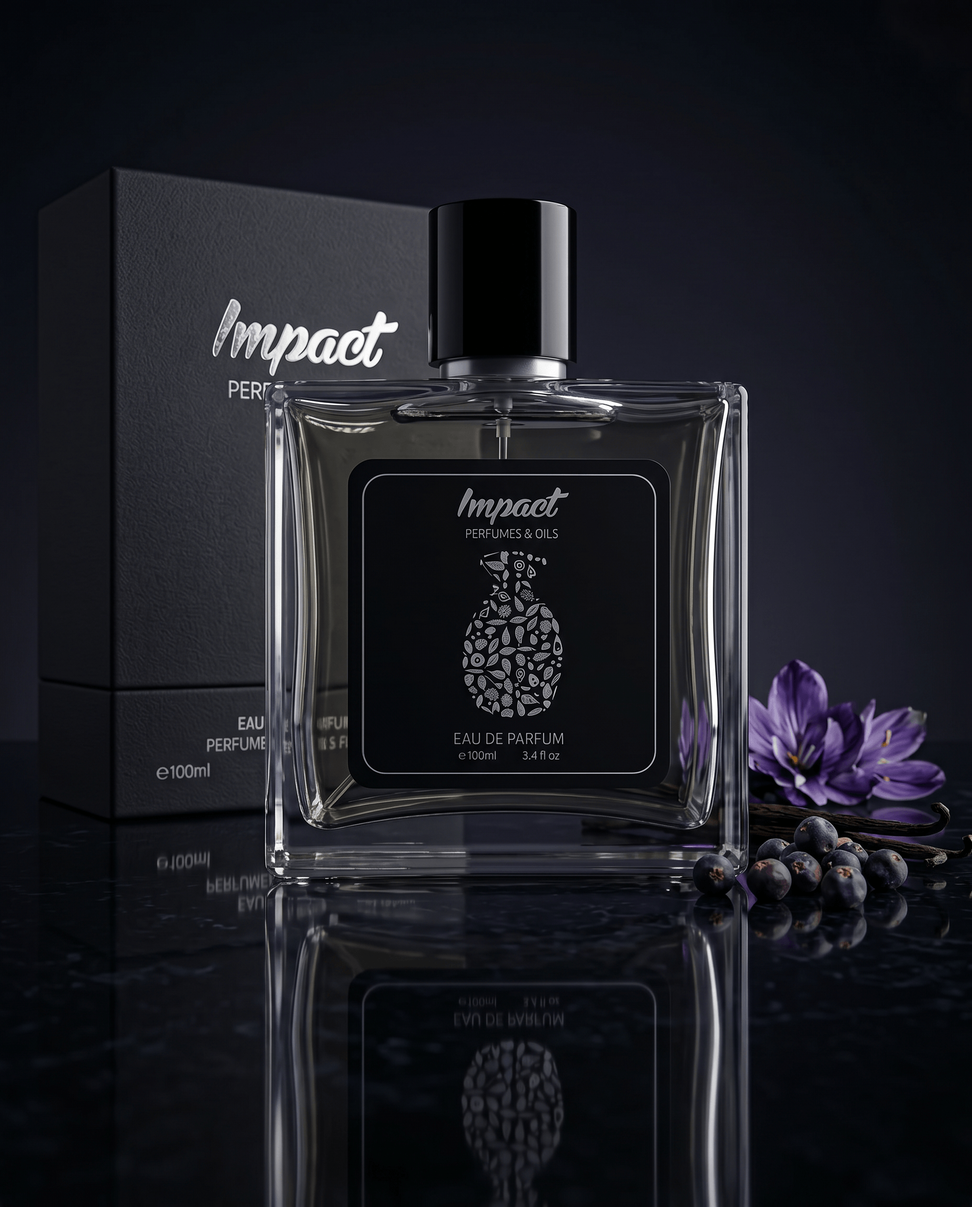
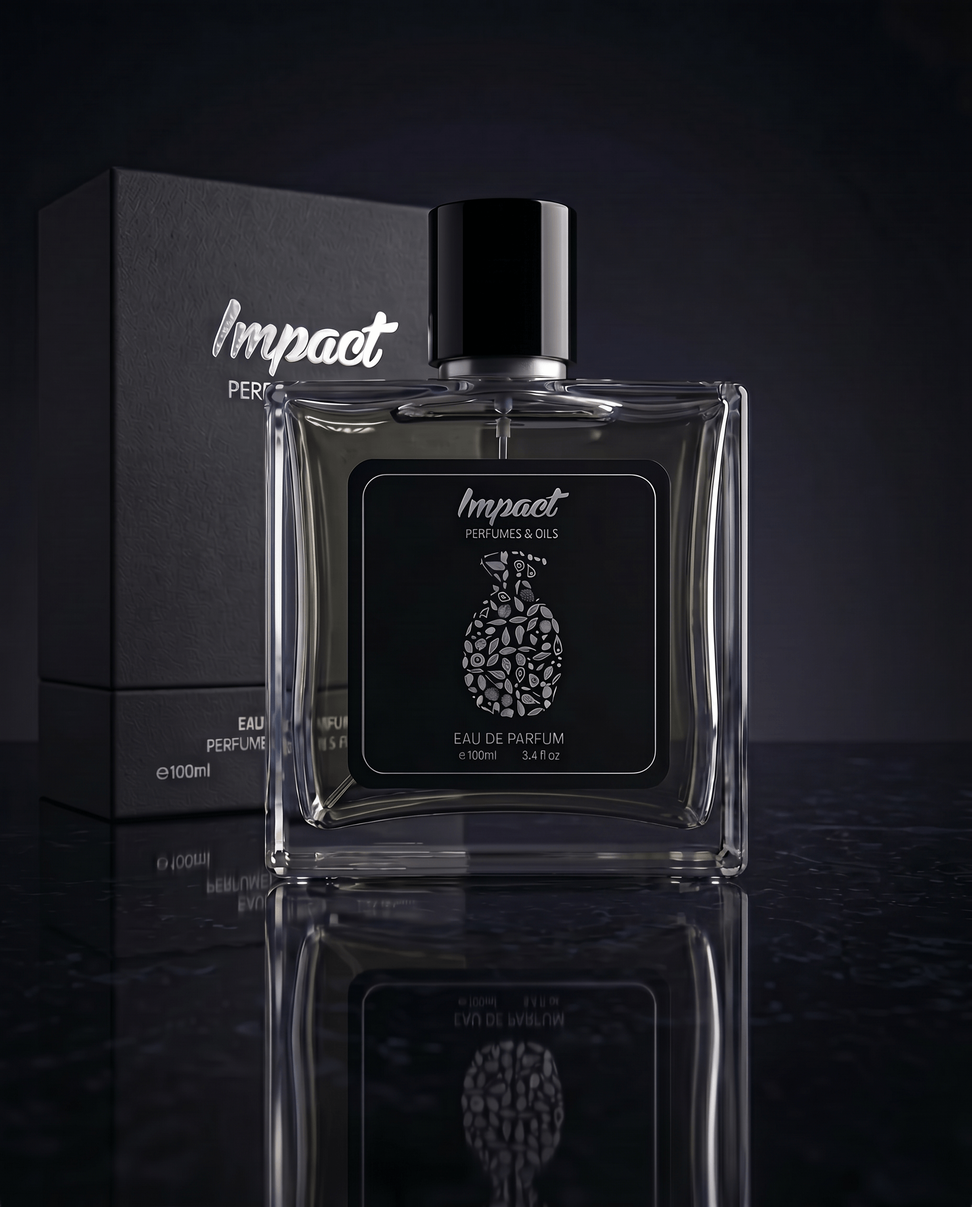
feat: rename /shop -> /no-series, refresh number bottle, sharper quiz CTAs
1) New No. series bottle image.
   public/images/no_series.png replaced with the new asset. Same filename
   so every existing reference keeps working.

2) /shop -> /no-series.
   The Number Series listing was sitting at /shop, which broke the pattern
   set by /signature, /oils, /home, /gifts. Moved the route folder and
   updated 31 URL refs across the codebase. Added a permanent /shop ->
   /no-series redirect (plus /shop/* -> /no-series/*) in next.config so
   inbound links and bookmarks keep landing.

3) Quiz CTAs that explain themselves.
   'Find Your Number' / 'Fragrance Finder' were brand-y but opaque to a
   first-time visitor. Refreshed copy across every touchpoint:
   - Hero secondary CTA: 'Find your fragrance'
   - Homepage Scent Quiz section: eyebrow now 'The Scent Quiz', CTA
     'Take the 90-second quiz', supporting copy reframed around 'tell us
     how you want to feel'.
   - Mega menu + mobile drawer Discovery column: 'Take the Scent Quiz'
   - /quiz page metadata: 'Find Your Fragrance' + matching OG copy.

diff --git a/src/components/layout/MegaMenu.tsx b/src/components/layout/MegaMenu.tsx
@@ -6,13 +6,13 @@ const MENUS = {
       {
         heading: 'Number Collection',
         links: [
-          { label: 'Shop All', href: '/shop' },
-          { label: 'Fruity', href: '/shop?family=Fruity' },
-          { label: 'Woody', href: '/shop?family=Woody' },
-          { label: 'Amber', href: '/shop?family=Amber' },
-          { label: 'Oud', href: '/shop?family=Oud' },
-          { label: 'Floral', href: '/shop?family=Floral' },
-          { label: 'Citrus', href: '/shop?family=Citrus' },
+          { label: 'Shop All', href: '/no-series' },
+          { label: 'Fruity', href: '/no-series?family=Fruity' },
+          { label: 'Woody', href: '/no-series?family=Woody' },
+          { label: 'Amber', href: '/no-series?family=Amber' },
+          { label: 'Oud', href: '/no-series?family=Oud' },
+          { label: 'Floral', href: '/no-series?family=Floral' },
+          { label: 'Citrus', href: '/no-series?family=Citrus' },
         ],
       },
     ],
@@ -40,7 +40,7 @@ const MENUS = {
         links: [
           { label: 'Number Series Discovery', href: '/gifts#discovery-sets' },
           { label: 'Signature Discovery', href: '/gifts#discovery-sets' },
-          { label: 'Fragrance Finder', href: '/quiz' },
+          { label: 'Take the Scent Quiz', href: '/quiz' },
         ],
       },
     ],

diff --git a/src/components/home/HomepageQuizSection.tsx b/src/components/home/HomepageQuizSection.tsx
@@ -7,13 +7,14 @@ export default function HomepageQuizSection() {
       <Container className="flex flex-col gap-10 md:flex-row md:items-center md:justify-between">
         <div className="max-w-lg">
           <p className="text-label uppercase tracking-[0.14em] text-ink/50">
-            Fragrance Finder
+            The Scent Quiz
           </p>
           <h2 className="mt-4 font-display text-[32px] md:text-display-s leading-[1.05] text-ink">
             Not sure where to start?
           </h2>
           <p className="mt-4 text-body text-ink/65 max-w-md">
-            Five questions. Takes 90 seconds. We match you to the Number made for you.
+            Tell us how you want to feel. Five questions, ninety seconds, and we&apos;ll
+            match you to the fragrance composed for you.
           </p>
         </div>
         <Link
@@ -21,7 +22,7 @@ export default function HomepageQuizSection() {
           className="shrink-0 inline-flex items-center justify-center bg-ink px-10 text-label uppercase tracking-[0.1em] text-bone transition-all duration-300 hover:bg-ink/80"
           style={{ height: 52 }}
         >
-          Find Your Number
+          Take the 90-second quiz
         </Link>
       </Container>
     </section>

diff --git a/src/components/home/CollectionsShowcase.tsx b/src/components/home/CollectionsShowcase.tsx
@@ -8,7 +8,7 @@ const COLLECTIONS = [
     description:
       '50 numbered Eau de Parfums. One silhouette. An infinite world of difference inside each bottle.',
     cta: 'Shop the Series',
-    href: '/shop',
+    href: '/no-series',
     accent: 'rgba(107,68,35,0.15)',
     large: true,
   },
@@ -61,7 +61,7 @@ export default function CollectionsShowcase() {
             </h2>
           </div>
           <Link
-            href="/shop"
+            href="/no-series"
             className="hidden text-small uppercase tracking-[0.1em] text-stone transition-colors hover:text-bone md:block"
           >
             View All
@@ -89,7 +89,7 @@ export default function CollectionsShowcase() {
         {/* Mobile CTA */}
         <div className="mt-8 md:hidden">
           <Link
-            href="/shop"
+            href="/no-series"
             className="text-small uppercase tracking-[0.1em] text-stone"
           >
             View All Collections

diff --git a/src/components/home/FeaturedNumbers.tsx b/src/components/home/FeaturedNumbers.tsx
@@ -50,7 +50,7 @@ export default async function FeaturedNumbers() {
             </h2>
           </div>
           <Link
-            href="/shop"
+            href="/no-series"
             className="hidden md:inline-flex items-center border border-stone/30 px-6 text-label uppercase tracking-[0.08em] text-bone/70 hover:border-bone hover:text-bone transition-colors duration-200 shrink-0"
             style={{ height: 40 }}
           >
@@ -129,7 +129,7 @@ export default async function FeaturedNumbers() {
         {/* Mobile "View all" CTA */}
         <div className="mt-10 flex justify-center md:hidden">
           <Link
-            href="/shop"
+            href="/no-series"
             className="inline-flex items-center border border-stone/30 px-8 text-label uppercase tracking-[0.08em] text-bone/70 hover:border-bone hover:text-bone transition-colors duration-200"
             style={{ height: 44 }}
           >

diff --git a/src/components/home/HeroSection.tsx b/src/components/home/HeroSection.tsx
@@ -30,7 +30,7 @@ export default function HeroSection() {
 
         <div className="mt-10 flex flex-wrap items-center gap-4">
           <Link
-            href="/shop"
+            href="/no-series"
             className="inline-flex items-center bg-accent px-8 text-label uppercase tracking-[0.1em] text-ink transition-all duration-300 ease-soft hover:opacity-90 hover:-translate-y-0.5"
             style={{ height: 52 }}
           >
@@ -41,7 +41,7 @@ export default function HeroSection() {
             className="inline-flex items-center border border-bone/30 px-8 text-label uppercase tracking-[0.1em] text-bone/80 transition-all duration-300 hover:border-bone hover:text-bone"
             style={{ height: 52 }}
           >
-            Find Your Number
+            Find your fragrance
           </Link>
         </div>
       </Container>

diff --git a/src/app/quiz/page.tsx b/src/app/quiz/page.tsx
@@ -5,12 +5,12 @@ import QuizClient from '@/components/quiz/QuizClient'
 import { type Enrichment } from '@/components/quiz/quizData'
 
 export const metadata: Metadata = {
-  title: 'Find Your Number',
+  title: 'Find Your Fragrance',
   description:
-    'Answer 5 questions and discover the Impact fragrance made for you.',
+    'Five questions, ninety seconds. We match you to the Impact fragrance composed for you.',
   openGraph: {
-    title: 'Find Your Number · Impact Perfumes',
-    description: 'Answer 5 questions. We match you to your Number.',
+    title: 'Find Your Fragrance · Impact Perfumes',
+    description: 'Five questions, ninety seconds. We match you to the fragrance for you.',
   },
 }
 

diff --git a/src/components/layout/MobileMenuDrawer.tsx b/src/components/layout/MobileMenuDrawer.tsx
@@ -16,8 +16,8 @@ const sections = [
   {
     title: 'Number Collection',
     links: [
-      { label: 'Shop All', href: '/shop' },
-      { label: 'By Scent Family', href: '/shop' },
+      { label: 'Shop All', href: '/no-series' },
+      { label: 'By Scent Family', href: '/no-series' },
     ],
   },
   {
@@ -53,7 +53,7 @@ const sections = [
     links: [
       { label: 'Number Series Discovery', href: '/gifts#discovery-sets' },
       { label: 'Signature Discovery', href: '/gifts#discovery-sets' },
-      { label: 'Fragrance Finder', href: '/quiz' },
+      { label: 'Take the Scent Quiz', href: '/quiz' },
     ],
   },
   {

diff --git a/src/lib/email.ts b/src/lib/email.ts
@@ -132,7 +132,7 @@ export function buildCustomerEmail(data: OrderEmailData): { subject: string; htm
       </tr>
     </table>
 
-    <a href="${SITE_CONFIG.url}/shop" style="display:inline-block;background:#1A1612;color:#F5F1EB;padding:14px 32px;font-size:11px;text-transform:uppercase;letter-spacing:0.1em;text-decoration:none;">
+    <a href="${SITE_CONFIG.url}/no-series" style="display:inline-block;background:#1A1612;color:#F5F1EB;padding:14px 32px;font-size:11px;text-transform:uppercase;letter-spacing:0.1em;text-decoration:none;">
       Continue Shopping
     </a>
     `

diff --git a/src/components/cart/CartDrawer.tsx b/src/components/cart/CartDrawer.tsx
@@ -113,7 +113,7 @@ export default function CartDrawer() {
                 Add a fragrance from the collection to get started.
               </p>
               <Link
-                href="/shop"
+                href="/no-series"
                 onClick={() => setOpen(false)}
                 className="mt-2 inline-flex items-center border border-stone/40 px-6 text-label uppercase tracking-[0.1em] text-bone hover:border-accent hover:text-accent transition-colors"
                 style={{ height: 44 }}

diff --git a/src/app/checkout/page.tsx b/src/app/checkout/page.tsx
@@ -59,7 +59,7 @@ export default function CheckoutPage() {
         <Container className="flex flex-col items-center justify-center py-32 text-center">
           <p className="font-display text-h1 text-bone/50">Your cart is empty.</p>
           <Link
-            href="/shop"
+            href="/no-series"
             className="mt-6 inline-flex items-center bg-accent px-8 text-label uppercase tracking-[0.1em] text-ink hover:opacity-90 transition-opacity"
             style={{ height: 52 }}
           >

diff --git a/src/app/sitemap.ts b/src/app/sitemap.ts
@@ -5,7 +5,7 @@ const { url } = SITE_CONFIG
 
 const STATIC_PAGES: MetadataRoute.Sitemap = [
   { url, priority: 1, changeFrequency: 'weekly' },
-  { url: `${url}/shop`, priority: 0.9, changeFrequency: 'weekly' },
+  { url: `${url}/no-series`, priority: 0.9, changeFrequency: 'weekly' },
   { url: `${url}/oils`, priority: 0.8, changeFrequency: 'weekly' },
   { url: `${url}/home`, priority: 0.8, changeFrequency: 'weekly' },
   { url: `${url}/gifts`, priority: 0.8, changeFrequency: 'weekly' },

diff --git a/src/app/house-story/page.tsx b/src/app/house-story/page.tsx
@@ -202,7 +202,7 @@ export default function HouseStoryPage() {
           </p>
           <div className="mt-10 flex flex-col items-center gap-4 sm:flex-row sm:justify-center">
             <Link
-              href="/shop"
+              href="/no-series"
               className="inline-flex items-center bg-accent px-10 text-label uppercase tracking-[0.1em] text-ink transition-opacity hover:opacity-90"
               style={{ height: 52 }}
             >
